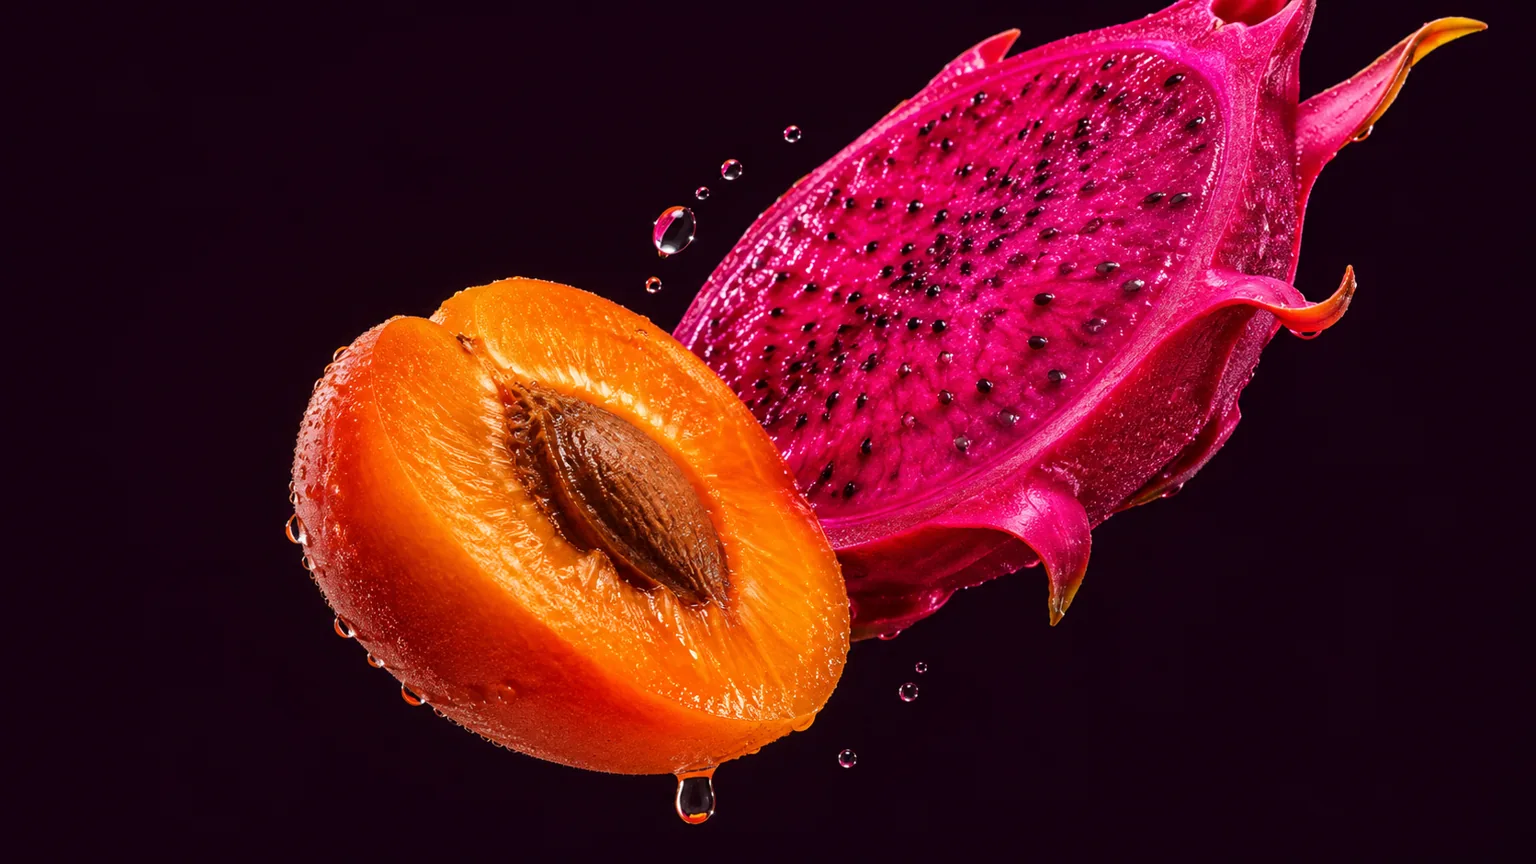
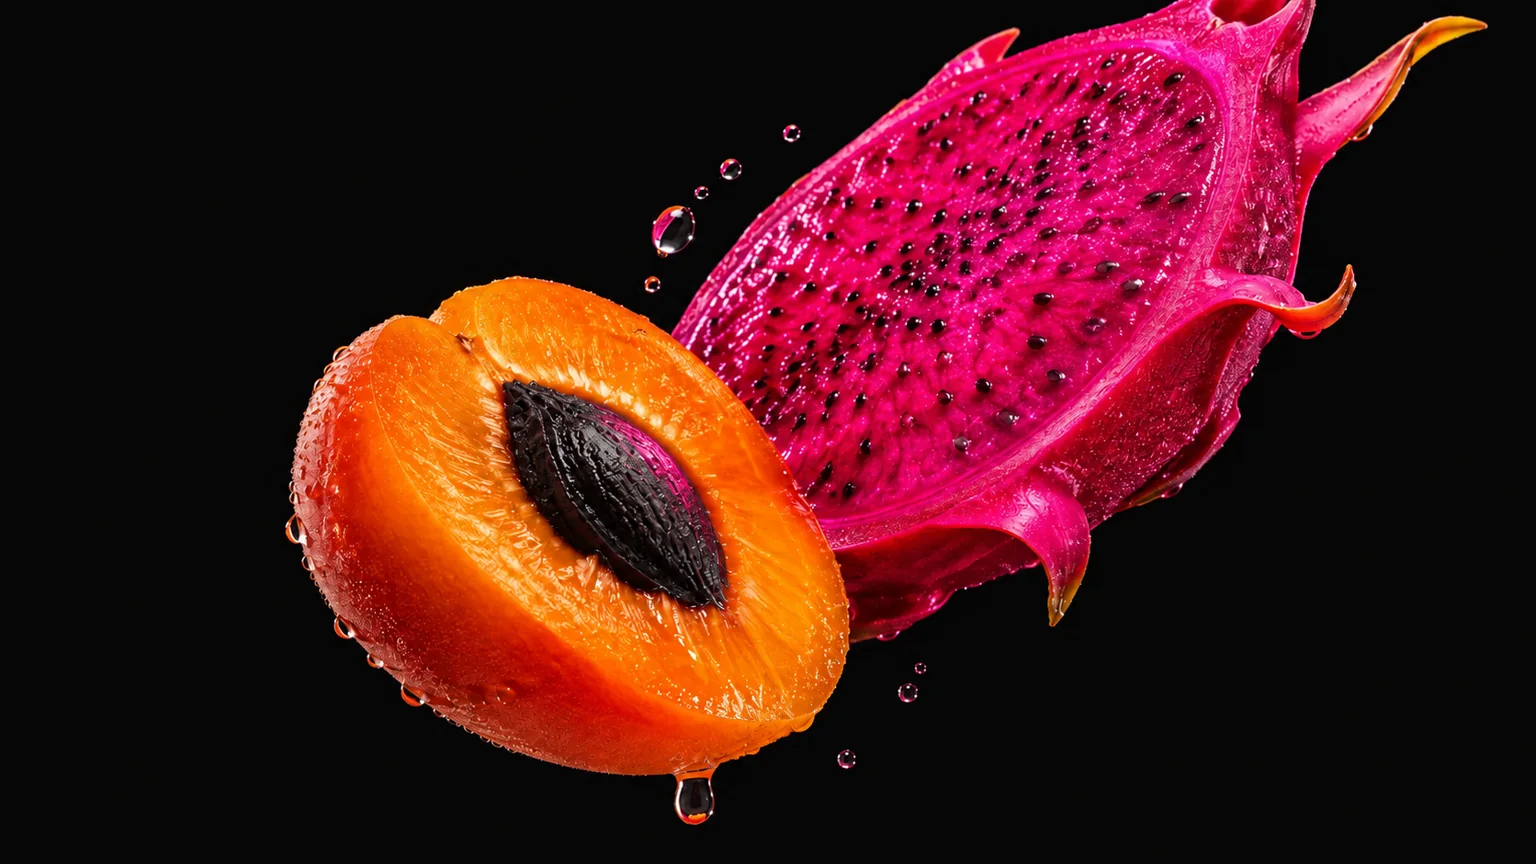
Replace warm neutrals with black across Orchard

diff --git a/styles.css b/styles.css
@@ -1,9 +1,9 @@
 @charset "UTF-8";
 :root {
   color-scheme: dark;
-  --ink: #171114;
-  --cream: #fff3e7;
-  --muted: #d1bec6;
+  --ink: #0b0b0b;
+  --white: #ffffff;
+  --muted: #d1d1d1;
   --orange: #f5781e;
   --pink: #f5236c;
   --display: Inter, Arial, sans-serif;
@@ -11,7 +11,7 @@
 }
 *, *::before, *::after { box-sizing: border-box; }
 html { scroll-behavior: smooth; }
-body { margin: 0; background: var(--ink); color: var(--cream); font: 1rem/1.55 var(--body); }
+body { margin: 0; background: var(--ink); color: var(--white); font: 1rem/1.55 var(--body); }
 a { color: inherit; text-decoration: none; }
 a:focus-visible { outline: 3px solid currentColor; outline-offset: 5px; }
 img { display: block; max-width: 100%; }
@@ -20,7 +20,7 @@ img { display: block; max-width: 100%; }
 .brand { display: inline-flex; align-items: center; gap: .45rem; font: 800 1.6rem/1 var(--display); letter-spacing: -.07em; }
 .brand span { color: var(--orange); margin-left: -.4rem; }
 nav { display: flex; gap: clamp(1rem, 4vw, 3rem); color: var(--muted); font-size: .95rem; }
-nav a:hover { color: var(--cream); }
+nav a:hover { color: var(--white); }
 .nav-action { border: 1px solid #ffffff40; border-radius: 999px; padding: .53rem 1.15rem; font-weight: 700; font-size: .9rem; white-space: nowrap; }
 .nav-action:hover { border-color: var(--orange); }
 .hero { position: relative; isolation: isolate; padding-top: clamp(4rem, 9vw, 8rem); overflow: clip; }
@@ -32,7 +32,7 @@ h1 { font-size: clamp(3.5rem, 9.5vw, 9rem); }
 h1 em { font-style: normal; color: var(--orange); background: linear-gradient(105deg, #ff963f 0%, var(--orange) 35%, #ff4787 92%); background-clip: text; -webkit-text-fill-color: transparent; }
 h2 { font-size: clamp(3.3rem, 7vw, 6.35rem); }
 .lede { max-width: 30rem; margin: 1.65rem 0 1.8rem; color: var(--muted); font-size: clamp(1.05rem, 1.65vw, 1.22rem); }
-.button { display: inline-flex; min-height: 3.3rem; align-items: center; justify-content: center; border-radius: 999px; padding: .7rem 1.5rem; background: var(--orange); color: #211012; font-weight: 800; transition: background .2s, transform .2s; }
+.button { display: inline-flex; min-height: 3.3rem; align-items: center; justify-content: center; border-radius: 999px; padding: .7rem 1.5rem; background: var(--orange); color: #0b0b0b; font-weight: 800; transition: background .2s, transform .2s; }
 .button:hover { background: #ff9a4f; transform: translateY(-3px); }
 .hero-art { position: absolute; z-index: -1; inset: .5rem -10% auto 32%; height: min(57vw, 41rem); overflow: hidden; background: radial-gradient(ellipse, #712246, transparent 65%); }
 .hero-art img, .start-art img { width: 100%; height: 100%; object-fit: cover; }
@@ -47,34 +47,34 @@ h2 { font-size: clamp(3.3rem, 7vw, 6.35rem); }
 .stats div + div { border-left: 1px solid #ffffff22; padding-left: 1.4rem; }
 .stats dt { font: 800 clamp(1.55rem, 4vw, 2.7rem)/1 var(--display); letter-spacing: -.06em; }
 .stats dd { margin: 0; color: var(--muted); font-size: .95rem; }
-.system { background: var(--cream); color: var(--ink); }
+.system { background: var(--white); color: var(--ink); }
 .section-grid { display: grid; grid-template-columns: 1.05fr 1fr; align-items: center; gap: clamp(2rem, 6vw, 6rem); padding-block: clamp(4rem, 9vw, 8rem); }
-.system .lede { color: #51434a; }
+.system .lede { color: #414141; }
 .system .eyebrow i { background: #ba1654; }
-.button-dark { background: var(--ink); color: var(--cream); }
-.button-dark:hover { background: #43222f; }
-.practice { border-radius: 1.6rem; background: #f8e5e1; padding: clamp(1rem, 3vw, 2rem); border: 1px solid #e7cbc7; box-shadow: 0 1.5rem 4rem #3a142315; }
+.button-dark { background: var(--ink); color: var(--white); }
+.button-dark:hover { background: #262626; }
+.practice { border-radius: 1.6rem; background: #f4f4f4; padding: clamp(1rem, 3vw, 2rem); border: 1px solid #dedede; box-shadow: 0 1.5rem 4rem #00000015; }
 .practice-head { display: flex; align-items: center; gap: .7rem; font-weight: 800; }
-.example { margin-left: auto; font-size: .82rem; color: #6d4857; }
+.example { margin-left: auto; font-size: .82rem; color: #555555; }
 .practice ol { list-style: none; padding: 0; margin: 1.3rem 0 0; display: grid; gap: .65rem; }
-.practice li { display: flex; align-items: center; gap: .85rem; padding: 1rem; background: #fff7ef; border: 1px solid #ecd6ce; border-radius: .9rem; }
-.practice li p { margin: .1rem 0 0; color: #54444a; }
-.step-icon { display: grid; flex: none; place-items: center; width: 2.5rem; height: 2.5rem; background: #ffd2ae; border-radius: .65rem; color: #712e12; font-size: 1.25rem; }
+.practice li { display: flex; align-items: center; gap: .85rem; padding: 1rem; background: #ffffff; border: 1px solid #e0e0e0; border-radius: .9rem; }
+.practice li p { margin: .1rem 0 0; color: #444444; }
+.step-icon { display: grid; flex: none; place-items: center; width: 2.5rem; height: 2.5rem; background: #ffe6d3; border-radius: .65rem; color: #111111; font-size: 1.25rem; }
 .practice li:nth-child(2) .step-icon { background: #ffc7dc; color: #831442; }
 .areas { padding-block: clamp(4rem, 8vw, 7rem); }
 .area-list { display: grid; grid-template-columns: repeat(5, 1fr); gap: .6rem; margin: 2rem 0; padding: 0; list-style: none; }
-.area-list li { display: flex; align-items: center; gap: .6rem; min-height: 3.5rem; padding: .7rem 1rem; border-radius: .8rem; border: 1px solid #ffffff24; background: #21181e; }
+.area-list li { display: flex; align-items: center; gap: .6rem; min-height: 3.5rem; padding: .7rem 1rem; border-radius: .8rem; border: 1px solid #ffffff24; background: #181818; }
 .area-list li::before { content: ""; width: .45rem; height: .45rem; flex: none; border-radius: 50%; background: var(--pink); }
 .area-list li:nth-child(odd)::before { background: var(--orange); }
 .start { background: #fa6096; color: var(--ink); overflow: hidden; }
 .start-inner { position: relative; isolation: isolate; padding-block: clamp(4rem, 8vw, 7rem); }
 .start-content { width: 56%; }
-.start .lede { color: #361522; }
+.start .lede { color: #151515; }
 .start-art { position: absolute; z-index: -1; inset: 0 -8% 0 50%; overflow: hidden; }
 .start-art img { object-position: 80% center; animation: drift 7s ease-in-out forwards; }
 .start-art::after { content: ""; position: absolute; inset: 0; background: linear-gradient(90deg, #fa6096 2%, transparent 44%); }
 .footer { display: flex; align-items: center; justify-content: space-between; gap: 1rem; min-height: 6rem; color: var(--muted); }
-.footer .brand { color: var(--cream); }
+.footer .brand { color: var(--white); }
 @keyframes drift { from { transform: scale(1.02) translateY(-.4%); } to { transform: scale(1.1) translateY(1.6%); } }
 @keyframes orbit { to { transform: rotate(-35deg) scale(1.08); } }
 @keyframes gleam { from { opacity: .35; transform: scale(.75); } to { opacity: 1; transform: scale(1.15); } }
@@ -110,38 +110,39 @@ h2 { font-size: clamp(3.3rem, 7vw, 6.35rem); }
 }
 
 /* Platform overview and module catalog */
-.top nav a[aria-current="page"] { color: var(--cream); text-decoration: underline; text-underline-offset: .35em; }
+.top nav a[aria-current="page"] { color: var(--white); text-decoration: underline; text-underline-offset: .35em; }
 .depth-section { padding-block: clamp(4rem, 8vw, 7rem); }
-.rhythm, .feature-light { background: var(--cream); color: var(--ink); }
-.rhythm .lede, .feature-light .lede { color: #51434a; }
+.rhythm, .feature-light { background: var(--white); color: var(--ink); }
+.rhythm .lede, .feature-light .lede { color: #414141; }
 .rhythm-list, .roles, .feature-grid { display: grid; gap: .8rem; margin: 2rem 0; }
 .rhythm-list { grid-template-columns: repeat(4, minmax(0, 1fr)); list-style: none; padding: 0; }
 .rhythm-list li, .roles article, .feature-card { padding: clamp(1rem, 2.5vw, 1.6rem); border-radius: 1.1rem; }
-.rhythm-list li { border: 1px solid #ead1c7; background: #fff9f2; }
+.rhythm-list li { border: 1px solid #dedede; background: #fafafa; }
 .rhythm-list span, .legacy-note span { color: #9b1848; font-size: .85rem; font-weight: 800; text-transform: uppercase; letter-spacing: .08em; }
 .rhythm-list h3, .roles h3, .feature-card h3 { margin: .45rem 0; font: 800 clamp(1.2rem, 2.1vw, 1.55rem)/1.12 var(--display); letter-spacing: -.045em; }
 .rhythm-list p, .roles p, .feature-card p { margin: .65rem 0 0; }
 .roles { grid-template-columns: repeat(2, minmax(0, 1fr)); }
-.roles article, .feature-card { border: 1px solid #ffffff29; background: #24191f; }
+.roles article, .feature-card { border: 1px solid #ffffff29; background: #181818; }
 .roles article:first-child { border-top-color: var(--orange); }
 .roles article:last-child { border-top-color: var(--pink); }
 .roles p, .feature-card p { color: var(--muted); }
-.legacy { background: #ffd8c2; color: var(--ink); }
-.legacy .lede { color: #503335; }
-.legacy-note { border: 1px solid #e9baa6; border-radius: 1.4rem; padding: clamp(1.5rem, 4vw, 3rem); background: #fff3e7; box-shadow: .65rem .65rem 0 #f5236c32; }
+.legacy { background: #111111; color: var(--white); border-block: 1px solid #ffffff24; }
+.legacy .lede { color: #d1d1d1; }
+.legacy-note { border: 1px solid #383838; border-radius: 1.4rem; padding: clamp(1.5rem, 4vw, 3rem); background: #181818; box-shadow: .65rem .65rem 0 #f5236c32; }
+.legacy-note span { color: #ff70a5; }
 .legacy-note blockquote { margin: 1rem 0; font: 700 clamp(1.45rem, 3vw, 2.1rem)/1.24 var(--display); letter-spacing: -.045em; }
-.legacy-note p { margin: 0; color: #61444a; }
+.legacy-note p { margin: 0; color: #d1d1d1; }
 .feature-hero .lede { max-width: 34rem; }
 .feature-hero { background: radial-gradient(ellipse at 85% 35%, #5c173b 0, transparent 56%); }
 .feature-index { display: flex; list-style: none; padding: 0; gap: .65rem 1.5rem; flex-wrap: wrap; margin: 1.75rem 0 0; color: var(--muted); }
 .feature-index a { text-decoration: underline; text-underline-offset: .28em; }
 .feature-band h2 { max-width: 14ch; font-size: clamp(3rem, 6vw, 5.4rem); }
 .feature-grid { grid-template-columns: repeat(3, minmax(0, 1fr)); }
-.feature-light .feature-card { background: #fff9f2; border: 1px solid #ead1c7; }
-.feature-light .feature-card p { color: #51434a; }
+.feature-light .feature-card { background: #fafafa; border: 1px solid #dedede; }
+.feature-light .feature-card p { color: #414141; }
 .feature-card ul { list-style: none; margin: 1rem 0 0; padding: 0; }
 .feature-card li { padding: .55rem 0; border-top: 1px solid #ffffff29; }
-.feature-light .feature-card li { border-color: #ead1c7; }
+.feature-light .feature-card li { border-color: #dedede; }
 .feature-card[id] { scroll-margin-top: 1rem; }
 
 @media (max-width: 800px) {
@@ -166,9 +167,9 @@ h2 { font-size: clamp(3.3rem, 7vw, 6.35rem); }
 .life-grid { display: grid; grid-template-columns: repeat(2, minmax(0, 1fr)); gap: .85rem; margin: 2rem 0; }
 .life-grid .life-card { display: flex; flex-direction: column; padding: clamp(1.2rem, 3vw, 2rem); border-top: 3px solid var(--orange); }
 .life-grid .life-card:nth-child(even) { border-top-color: var(--pink); }
-.life-card dl { margin: 1.1rem 0 1.3rem; padding-top: .9rem; border-top: 1px solid #ead1c7; }
+.life-card dl { margin: 1.1rem 0 1.3rem; padding-top: .9rem; border-top: 1px solid #dedede; }
 .life-card dt { font-weight: 800; }
-.life-card dd { margin: .12rem 0 .7rem; color: #51434a; }
+.life-card dd { margin: .12rem 0 .7rem; color: #414141; }
 .life-card .tool-link { margin-top: auto; align-self: flex-start; }
 @media (max-width: 650px) {
   .life-hero .section-grid, .life-grid { grid-template-columns: 1fr; }
@@ -188,13 +189,13 @@ h2 { font-size: clamp(3.3rem, 7vw, 6.35rem); }
   min-width: 0;
   aspect-ratio: 1;
   border-radius: 1.4rem;
-  background: #28151f;
+  background: #0b0b0b;
 }
 .editorial-art img { width: 100%; height: 100%; object-fit: cover; }
 .editorial-art.in-view img { animation: editorial-drift 4.6s cubic-bezier(.2, .65, .3, 1) both; }
-.legacy-art { aspect-ratio: 6 / 5; background: #eeb89d; }
+.legacy-art { aspect-ratio: 6 / 5; background: #0b0b0b; }
 .legacy-visual { display: grid; gap: .85rem; }
-.feature-art { box-shadow: 0 1.1rem 4rem #0b050a55; }
+.feature-art { box-shadow: 0 1.1rem 4rem #00000055; }
 .feature-hero-grid { grid-template-columns: minmax(0, 1.2fr) minmax(0, .8fr); }
 .feature-hero-grid h1 { font-size: clamp(3.25rem, 6.8vw, 6.2rem); }
 .garden-layout { display: grid; grid-template-columns: minmax(0, 1.2fr) minmax(0, .8fr); align-items: center; gap: clamp(2rem, 5vw, 4.5rem); }
@@ -210,19 +211,19 @@ h2 { font-size: clamp(3.3rem, 7vw, 6.35rem); }
 }
 
 /* Homepage platform examples */
-.story-band { background: #ffd8c2; color: var(--ink); }
-.story-band .lede { color: #503335; }
+.story-band { background: #111111; color: var(--white); border-top: 1px solid #ffffff24; }
+.story-band .lede { color: #d1d1d1; }
 .story-steps { list-style: none; counter-reset: story; padding: 0; margin: 2rem 0; max-width: 53rem; }
-.story-steps li { display: grid; grid-template-columns: auto 1fr; gap: 1rem; padding: 1.05rem 0; border-top: 1px solid #b66b5b60; counter-increment: story; }
-.story-steps li:last-child { border-bottom: 1px solid #b66b5b60; }
-.story-steps li::before { content: counter(story); display: grid; place-items: center; width: 2.1rem; height: 2.1rem; border-radius: 50%; background: var(--ink); color: var(--cream); font-weight: 800; }
+.story-steps li { display: grid; grid-template-columns: auto 1fr; gap: 1rem; padding: 1.05rem 0; border-top: 1px solid #ffffff2b; counter-increment: story; }
+.story-steps li:last-child { border-bottom: 1px solid #ffffff2b; }
+.story-steps li::before { content: counter(story); display: grid; place-items: center; width: 2.1rem; height: 2.1rem; border-radius: 50%; background: var(--pink); color: var(--ink); font-weight: 800; }
 .story-steps h3 { margin: 0; font: 800 1.25rem/1.25 var(--display); letter-spacing: -.035em; }
-.story-steps p { margin: .3rem 0 0; color: #503335; }
+.story-steps p { margin: .3rem 0 0; color: #d1d1d1; }
 .stage-grid .feature-card { border-top: 3px solid var(--orange); }
 .stage-grid .feature-card:nth-child(2) { border-top-color: var(--pink); }
 .stage-grid .stage-label { margin: 0 0 .75rem; color: #ffab74; font-weight: 800; }
 .home-questions { margin: 0; }
-.home-questions div { padding: 1rem 0; border-top: 1px solid #d6b8ae; }
-.home-questions div:last-child { border-bottom: 1px solid #d6b8ae; }
+.home-questions div { padding: 1rem 0; border-top: 1px solid #d6d6d6; }
+.home-questions div:last-child { border-bottom: 1px solid #d6d6d6; }
 .home-questions dt { font: 800 1.13rem/1.3 var(--display); letter-spacing: -.025em; }
-.home-questions dd { margin: .4rem 0 0; color: #51434a; }
+.home-questions dd { margin: .4rem 0 0; color: #414141; }

diff --git a/index.html b/index.html
@@ -3,7 +3,7 @@
 <head>
   <meta charset="utf-8">
   <meta name="viewport" content="width=device-width, initial-scale=1">
-  <meta name="theme-color" content="#171114">
+  <meta name="theme-color" content="#0b0b0b">
   <meta name="description" content="Orchard is a whole-child development system for parents, from the first years to eighteen.">
   <title>Orchard — Grow with intention</title>
   <link rel="icon" href="assets/mark.svg" type="image/svg+xml">
@@ -84,7 +84,7 @@
           <li><div><h3>Ask what’s getting easier</h3><p>At the Weekly Check-In, ask them to show you the part they figured out. If one chord keeps getting in the way, make that the next small goal.</p></div></li>
           <li><div><h3>Keep something from the experience</h3><p>Save a note about the first time they played all the way through. Years later, that detail can help tell the story of how they learned to stick with something.</p></div></li>
         </ol>
-        <a class="button button-dark" href="#rhythm">See the review rhythm</a>
+        <a class="button" href="#rhythm">See the review rhythm</a>
       </div>
     </section>
     <section class="rhythm" id="rhythm" aria-labelledby="rhythm-title">
@@ -128,7 +128,7 @@
           <p class="eyebrow"><i></i> Memory &amp; legacy</p>
           <h2 id="legacy-title">Keep the things<br>they’ll forget.</h2>
           <p class="lede">The book they asked for every night. The first time they stood up for a friend. Keep the details as they happen, and draw on them when it’s time to write a letter for their eighteenth birthday.</p>
-          <a class="button button-dark" href="features.html#memory-legacy">Explore the Memory &amp; Legacy Vault</a>
+          <a class="button" href="features.html#memory-legacy">Explore the Memory &amp; Legacy Vault</a>
         </div>
         <div class="legacy-visual">
           <div class="editorial-art legacy-art" aria-hidden="true">

diff --git a/life-areas.html b/life-areas.html
@@ -3,7 +3,7 @@
 <head>
   <meta charset="utf-8">
   <meta name="viewport" content="width=device-width, initial-scale=1">
-  <meta name="theme-color" content="#171114">
+  <meta name="theme-color" content="#0b0b0b">
   <meta name="description" content="Explore the ten Orchard life areas with practical ideas and reflection questions for whole-child development.">
   <title>Orchard Life Areas — The Whole-Child Framework</title>
   <link rel="icon" href="assets/mark.svg" type="image/svg+xml">

diff --git a/features.html b/features.html
@@ -3,7 +3,7 @@
 <head>
   <meta charset="utf-8">
   <meta name="viewport" content="width=device-width, initial-scale=1">
-  <meta name="theme-color" content="#171114">
+  <meta name="theme-color" content="#0b0b0b">
   <meta name="description" content="Explore the 12 modules that make up the Orchard platform vision for whole-child development.">
   <title>Orchard Features — The 12 Modules</title>
   <link rel="icon" href="assets/mark.svg" type="image/svg+xml">
